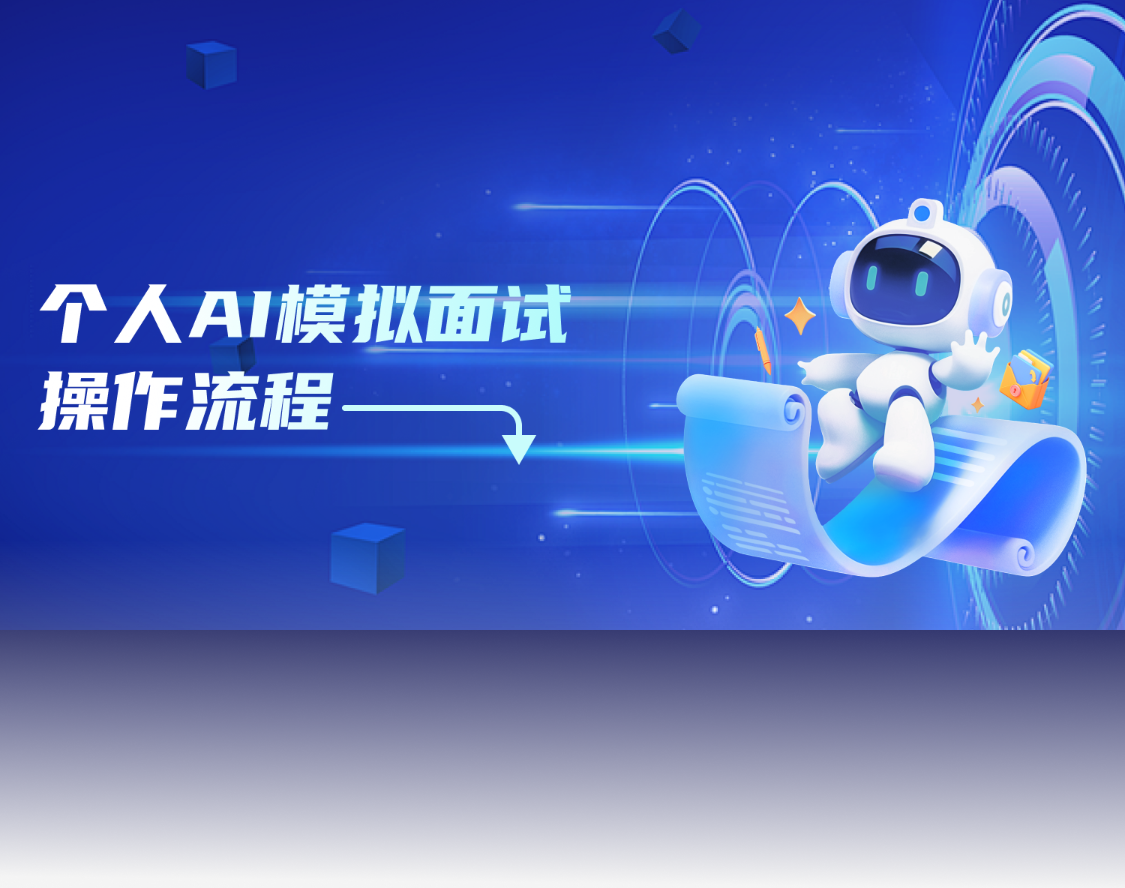
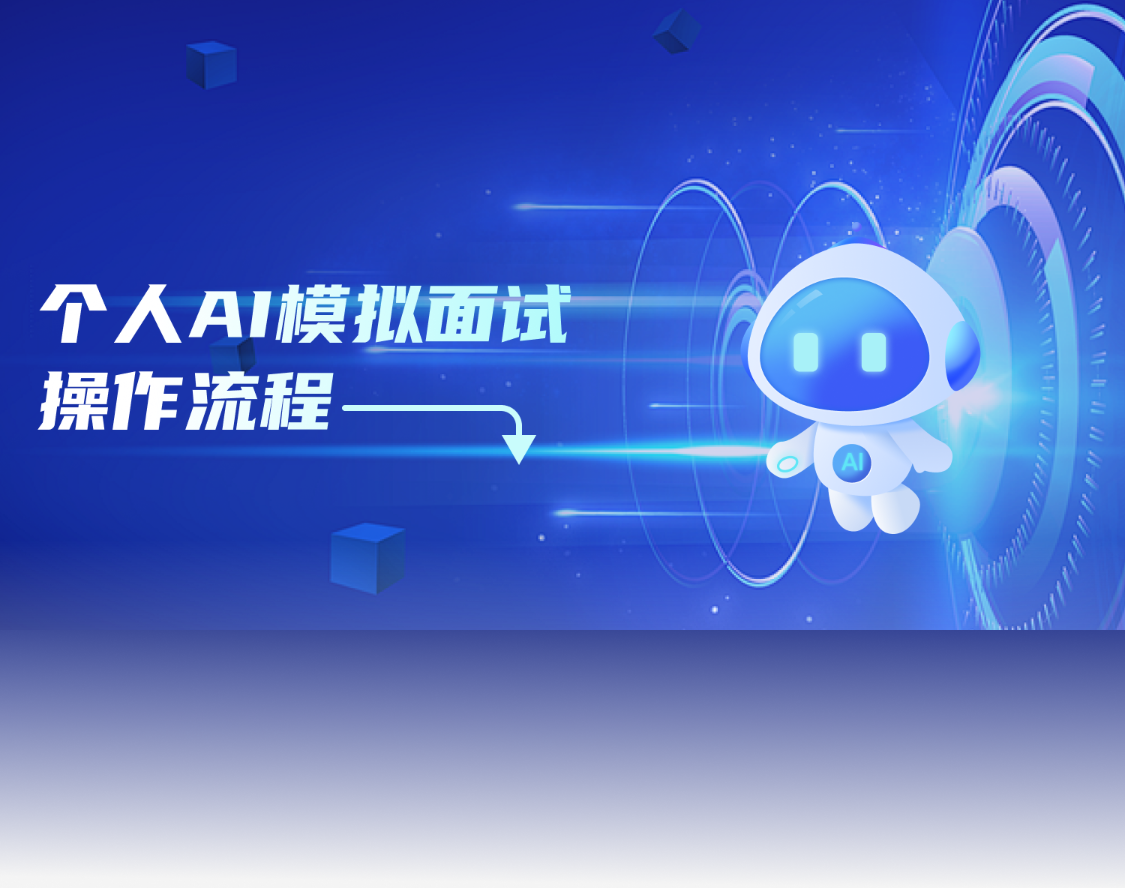
no message

Changed region(s): [[0.0, 0.6993, 1.0, 0.8209], [0.5911, 0.2128, 0.9644, 0.6689]]

diff --git a/src/pages/interviews/process.vue b/src/pages/interviews/process.vue
@@ -12,7 +12,7 @@
       <view class="absolute left-1.8/5">企业AI面试应用</view>
     </view>
     <view>
-      <image :src="aibg10" class="w-full h-70"></image>
+      <image :src="aibg11" class="w-full h-70"></image>
     </view>
     <!-- 功能介绍 -->
     <view class="w-full h-55 flex flex-row justify-center items-center -translate-y-30">
@@ -56,7 +56,7 @@
     <view class="bottom-0 w-full h-10 flex justify-center items-center pt-4 pb-6 fixed bg-white">
       <view
         class="bg-gradient-to-r from-#1173fd to-#4fc2fd bg-opacity-50 backdrop-blur-lg w-[85%] h-full flex justify-center items-center text-white text-base font-serif font-extrabold rounded-3xl"
-        @click="showSheet = true"
+        @click="back()"
       >
         创建AI面试题
       </view>
@@ -65,8 +65,8 @@
 </template>
 
 <script lang="ts" setup>
-import aibg10 from '../../static/images/ai-bg-10.png'
-import processSimulation from '../../static/app/icons/icon-process-simulation.png'
+import aibg11 from '../../static/images/ai-bg-11.png'
+import processSimulation from '../../static/app/icons/icon_process.png'
 import spzwt from '../../static/app/icons/icon_spzwt_play.png'
 import play from '../../static/app/icons/icon_play.png'
 import zfj from '../../static/app/icons/icon_zfj.png'
@@ -78,7 +78,9 @@ import { navigateBack } from '@/utils/platformUtils'
 const toast = useToast()
 const showSheet = ref(false)
 const items = ref([])
-
+const back = () => {
+  navigateBack()
+}
 const close = async () => {
   showSheet.value = false
 }
